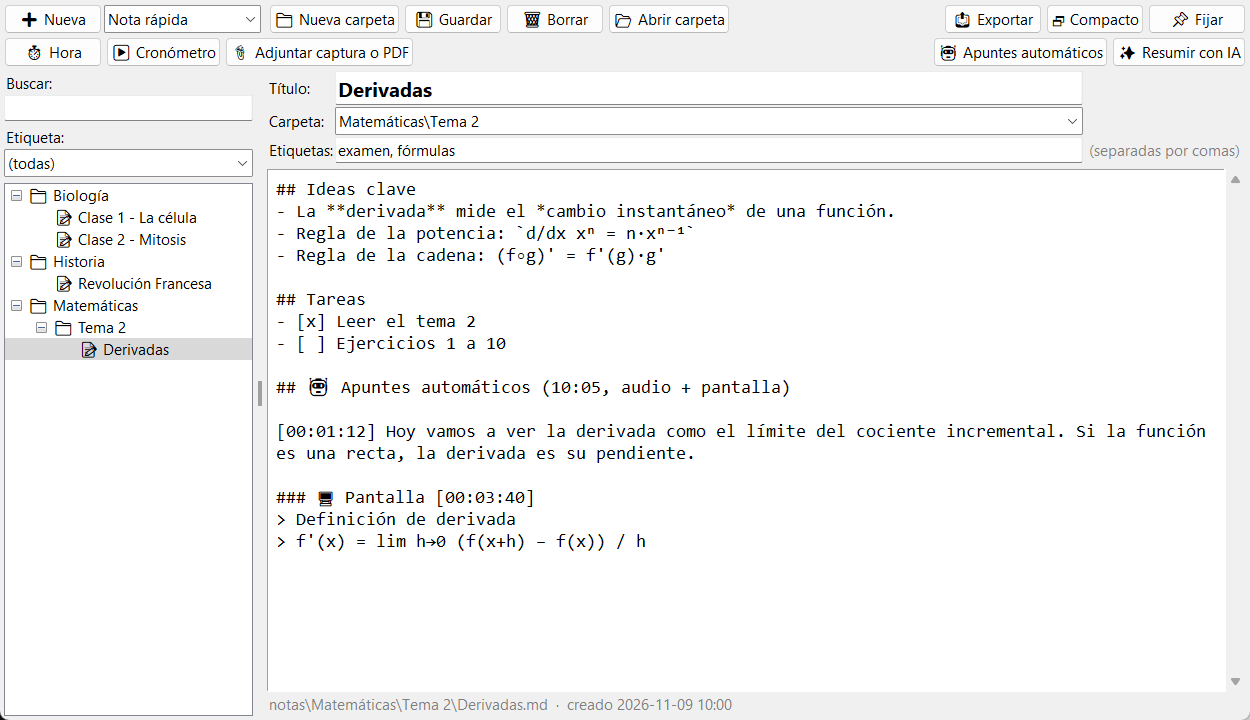
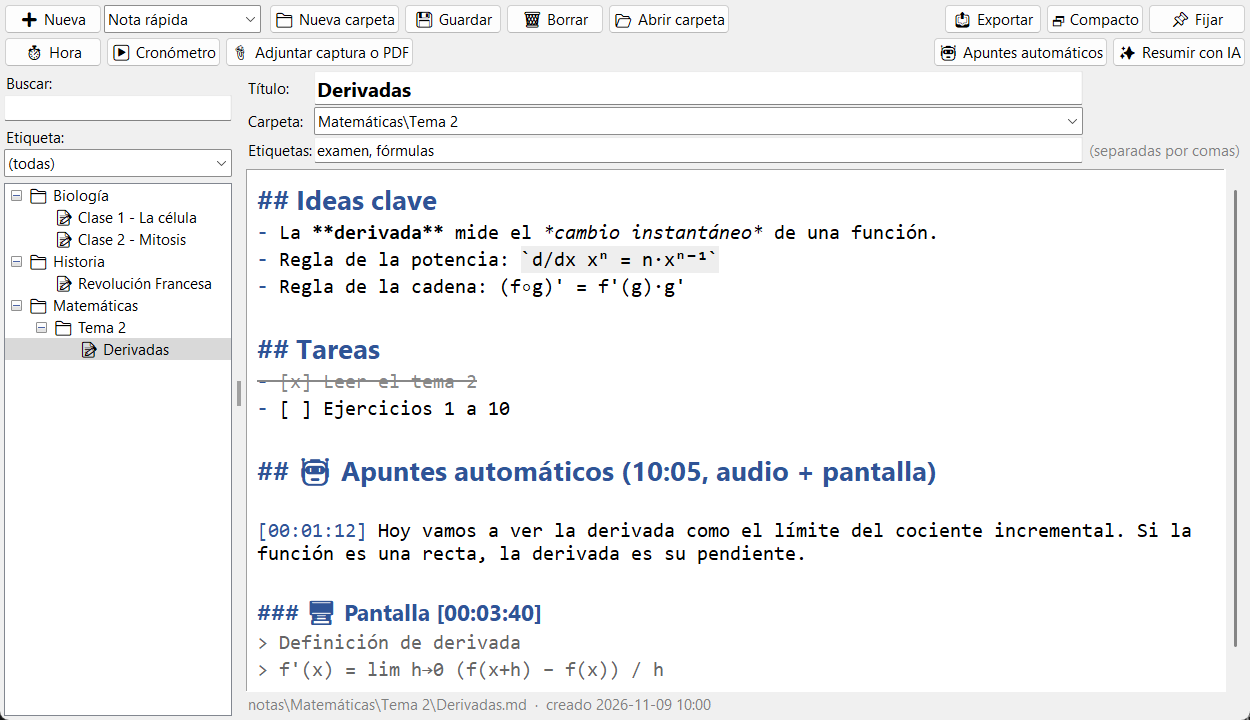
Autoguardado, resaltado Markdown, tamaño de letra, pruebas y README con qué probar

diff --git a/tests/test_apuntalo.py b/tests/test_apuntalo.py
@@ -1,0 +1,162 @@
+"""Pruebas de Apúntalo. Ejecutar desde la carpeta del proyecto:  py -3 -m unittest -v"""
+import importlib.machinery
+import importlib.util
+import sys
+import tempfile
+import unittest
+import xml.dom.minidom
+import zipfile
+from pathlib import Path
+
+RAIZ = Path(__file__).resolve().parent.parent
+sys.path.insert(0, str(RAIZ))
+import exportar  # noqa: E402
+
+
+def cargar_app():
+    cargador = importlib.machinery.SourceFileLoader("apuntalo", str(RAIZ / "apuntes.pyw"))
+    spec = importlib.util.spec_from_loader("apuntalo", cargador)
+    modulo = importlib.util.module_from_spec(spec)
+    cargador.exec_module(modulo)
+    return modulo
+
+
+ap = cargar_app()
+
+
+class TemporalMixin:
+    """Redirige las carpetas de datos de la app a una carpeta temporal."""
+
+    def setUp(self):
+        self._tmp = tempfile.TemporaryDirectory()
+        base = Path(self._tmp.name)
+        self._antes = (ap.BASE, ap.NOTAS, ap.ADJUNTOS, ap.CONFIG)
+        ap.BASE, ap.NOTAS = base, base / "notas"
+        ap.ADJUNTOS, ap.CONFIG = ap.NOTAS / "_adjuntos", base / "config.json"
+
+    def tearDown(self):
+        ap.BASE, ap.NOTAS, ap.ADJUNTOS, ap.CONFIG = self._antes
+        self._tmp.cleanup()
+
+
+class TestNotas(TemporalMixin, unittest.TestCase):
+    def test_slug_quita_caracteres_prohibidos(self):
+        self.assertEqual(ap.slug('Tema 1: ¿qué es "x"?'), "Tema 1 ¿qué es x")
+        self.assertEqual(ap.slug("  ..  "), "sin titulo")
+
+    def test_guardar_y_leer(self):
+        ruta = ap.NOTAS / "Física" / "Clase 1.md"
+        ap.escribir_nota(ruta, "Clase 1", ["examen", "tema 2"], "2026-11-09 10:00", "Texto con **negrita**\n")
+        meta, cuerpo = ap.leer_nota(ruta)
+        self.assertEqual(meta["titulo"], "Clase 1")
+        self.assertEqual(meta["etiquetas"], ["examen", "tema 2"])
+        self.assertEqual(meta["creado"], "2026-11-09 10:00")
+        self.assertEqual(cuerpo, "Texto con **negrita**\n")
+
+    def test_leer_markdown_sin_cabecera(self):
+        ruta = ap.NOTAS / "suelta.md"
+        ruta.parent.mkdir(parents=True)
+        ruta.write_text("# Hola\n", encoding="utf-8")
+        meta, cuerpo = ap.leer_nota(ruta)
+        self.assertEqual(meta["titulo"], "suelta")
+        self.assertEqual(cuerpo, "# Hola\n")
+
+
+class TestUtilidades(unittest.TestCase):
+    def test_texto_util_descarta_basura_del_ocr(self):
+        ocr = "e\noo\n> x\nConceptos clave: (Cloud)\n0100\n1- Recursos (infraestructura)"
+        self.assertEqual(ap.texto_util(ocr), "Conceptos clave: (Cloud)\n1- Recursos (infraestructura)")
+
+    def test_elegir_modelo_gemini(self):
+        def m(nombre, ok=True):
+            return {"name": "models/" + nombre, "supportedGenerationMethods": ["generateContent"] if ok else []}
+        modelos = [m("gemini-2.0-flash"), m("gemini-2.5-flash"), m("gemini-2.5-flash-lite"),
+                   m("gemini-3.0-flash-preview"), m("gemini-2.5-pro"), m("gemini-9-flash", ok=False)]
+        self.assertEqual(ap.elegir_modelo_gemini(modelos), "models/gemini-2.5-flash")
+        with self.assertRaises(RuntimeError):
+            ap.elegir_modelo_gemini([m("gemini-2.5-pro")])
+
+
+class TestExportar(unittest.TestCase):
+    MD = ("# Título\nTexto con **negrita**, *cursiva* y `código`.\n- viñeta\n  - sub\n1. uno\n"
+          "- [ ] tarea\n- [x] hecha\n> cita\n```\nprint(1)\n```\n![img](no-existe.png)\n")
+
+    def nota(self):
+        return {"titulo": "Clase & <1>", "cuerpo": self.MD, "fecha": "2026-11-09", "asignatura": "Física",
+                "etiquetas": ["examen"], "carpeta": "."}
+
+    def test_bloques(self):
+        tipos = [b["tipo"] for b in exportar.bloques(self.MD)]
+        self.assertEqual(tipos, ["h1", "p", "ul", "ul", "ol", "tarea", "tarea", "cita", "codigo", "img"])
+        self.assertEqual(exportar.bloques(self.MD)[3]["nivel"], 1)
+
+    def test_trozos(self):
+        self.assertEqual(exportar.trozos("a **b** *c* `d`"),
+                         [("a ", False, False, False), ("b", True, False, False), (" ", False, False, False),
+                          ("c", False, True, False), (" ", False, False, False), ("d", False, False, True)])
+
+    def test_html_escapa_y_da_formato(self):
+        h = exportar.a_html([self.nota()], "Física")
+        self.assertIn("Clase &amp; &lt;1&gt;", h)
+        self.assertIn("<strong>negrita</strong>", h)
+        self.assertIn("<em>cursiva</em>", h)
+        self.assertIn("[Adjunto: img]", h)
+
+    def test_docx_valido(self):
+        with tempfile.TemporaryDirectory() as tmp:
+            destino = Path(tmp) / "a.docx"
+            exportar.a_docx([self.nota(), self.nota()], destino, "Física")
+            with zipfile.ZipFile(destino) as z:
+                for nombre in z.namelist():
+                    xml.dom.minidom.parseString(z.read(nombre))  # XML bien formado
+                doc = z.read("word/document.xml").decode("utf-8")
+        self.assertIn("negrita", doc)
+        self.assertIn('w:type="page"', doc)  # salto de página entre apuntes
+        self.assertIn("Clase &amp; &lt;1&gt;", doc)
+
+
+class TestVentana(TemporalMixin, unittest.TestCase):
+    """Prueba de humo de la interfaz (se salta si no hay pantalla)."""
+
+    def setUp(self):
+        super().setUp()
+        try:
+            self.app = ap.App()
+        except Exception as e:  # noqa: BLE001
+            self.skipTest(f"Sin pantalla: {e}")
+        self.app.withdraw()
+
+    def tearDown(self):
+        self.app.cerrar()
+        super().tearDown()
+
+    def test_crear_buscar_y_resaltar(self):
+        from unittest import mock
+        with mock.patch.object(ap.simpledialog, "askstring", return_value="Tema 1"):
+            self.app.nueva_carpeta()
+        self.app.arbol.selection_set("dir:Tema 1")
+        with mock.patch.object(ap.simpledialog, "askstring", return_value="Derivadas"):
+            self.app.nueva()
+        self.app.texto.insert("end", "# Título\nLa **derivada** [00:01:12]\n")
+        self.app.guardar()
+        self.assertTrue((ap.NOTAS / "Tema 1" / "Derivadas.md").is_file())
+        self.app.resaltar()
+        self.assertTrue(self.app.texto.tag_ranges("h1"))
+        self.assertTrue(self.app.texto.tag_ranges("negrita"))
+        self.assertTrue(self.app.texto.tag_ranges("tiempo"))
+        self.app.busqueda.set("derivada")
+        self.app.refrescar()
+        self.assertEqual(len(self.app.arbol.get_children("dir:Tema 1")), 1)
+        self.app.busqueda.set("no-aparece")
+        self.app.refrescar()
+        self.assertEqual(len(self.app.arbol.get_children("dir:Tema 1")), 0)
+
+    def test_tamano_de_letra(self):
+        self.app.cambiar_letra(+3)
+        self.assertEqual(self.app.tam_letra, 15)
+        self.app.cambiar_letra(0)
+        self.assertEqual(self.app.tam_letra, 12)
+
+
+if __name__ == "__main__":
+    unittest.main()

diff --git a/README.md b/README.md
@@ -43,6 +43,11 @@ Necesitas [Python 3.10 o superior](https://www.python.org/downloads/). Descarga 
 | F8 | Empezar o parar los apuntes automáticos |
 | F9 / F10 | Fijar encima / Modo compacto |
 | Ctrl+Alt+A | Mostrar u ocultar la ventana desde cualquier programa |
+| Ctrl + / Ctrl - / Ctrl 0 (o Ctrl + rueda) | Letra más grande / más pequeña / normal |
+
+Mientras escribes, el editor colorea el formato: títulos, **negritas**, *cursivas*, `código`, citas, tareas hechas y marcas de tiempo. Además:
+- Se guarda solo cada 15 segundos, al cambiar de apunte y al cerrar.
+- Al abrir la app vuelve al último apunte en el que estabas.
 
 ## Apuntes automáticos: detalles
 
@@ -73,7 +78,23 @@ Tus apuntes se quedan en tu PC. Solo salen de él si usas **Resumir con IA**: co
 3. Mantén la app sin dependencias obligatorias: debe funcionar solo con Python y Windows. Las dependencias opcionales, como `anthropic`, se importan solo cuando se usan.
 4. Escribe la interfaz y los mensajes en español, claros para alguien que no sabe de informática.
 
+Antes de enviar cambios, pasa las pruebas desde la carpeta del proyecto: `py -3 -m unittest -v`.
+
 Para generar el `.exe`: `py -3 -m pip install -r requirements.txt` y después ejecuta `crear_exe.bat`.
+
+## Qué probar (lista para la versión 1.0)
+
+- [ ] **Abrir:** doble clic en `Apuntalo.exe` (o en `Abrir apuntes.bat`). La ventana se abre y, la segunda vez, vuelve al último apunte.
+- [ ] **Organizar:** crea la carpeta `Matemáticas/Tema 1` y un apunte con la plantilla *Clase / estudio*. Ponle etiquetas y búscalo con Ctrl+F.
+- [ ] **Formato:** escribe `# Título`, `**negrita**` y `- [x] tarea` y comprueba que se colorean. Prueba Ctrl + y Ctrl - para cambiar el tamaño de la letra.
+- [ ] **Autoguardado:** escribe algo, espera 15 segundos y cierra la app desde el Administrador de tareas. Al volver a abrirla, el texto sigue ahí.
+- [ ] **Sobre un vídeo:** pon un vídeo de YouTube y pulsa F9 (fijar) y F10 (compacto). Ajusta la transparencia y prueba Ctrl+Alt+A desde el navegador.
+- [ ] **Automático con audio:** F8, marca solo 🎧 y pon un vídeo con voz. Comprueba que el texto aparece en párrafos con su `[hh:mm:ss]` y sin repeticiones.
+- [ ] **Automático con pantalla:** F8, marca 🖥 y elige con ✂ la zona de unas diapositivas. Cambia de diapositiva y comprueba que aparece una captura con su texto.
+- [ ] **ChatGPT:** ✨ Resumir con IA → ChatGPT. Pega en chatgpt.com, copia la respuesta y pulsa «Crear apunte con la respuesta».
+- [ ] **Gemini:** crea una clave gratis en aistudio.google.com/apikey y usa ✨ Resumir con IA → Gemini.
+- [ ] **Exportar:** Ctrl+E y exporta a PDF y a Word un apunte y una asignatura entera. Abre el `.docx` en Word, LibreOffice o Google Docs y comprueba que se ve bien.
+- [ ] **Compacto:** al pasar a modo compacto (F10), todos los botones de la barra pequeña funcionan.
 
 ## Licencia
 
